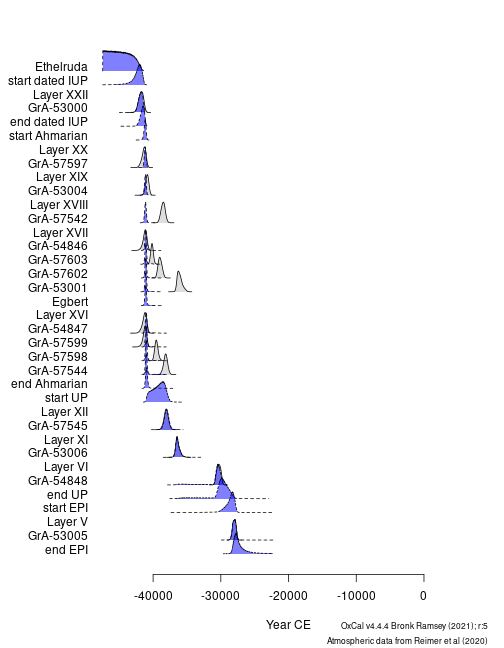
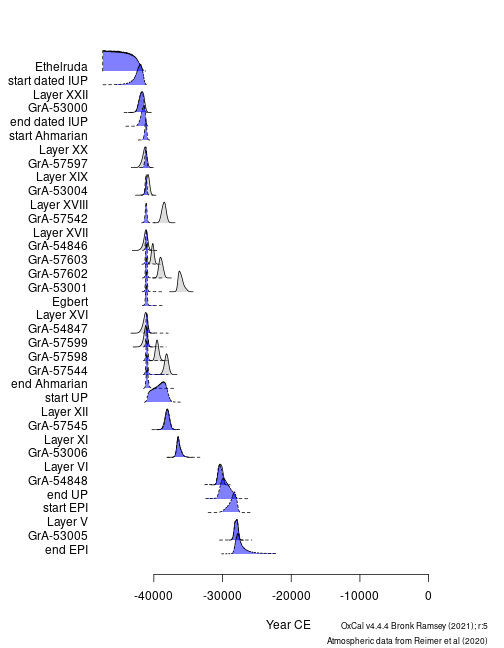
Deploying to gh-pages from @ ArchaeoStat/ArchaeoCal@58fbb9c8722d02583ce2d0082a430f33365cce5d 🚀

diff --git a/articles/ArchaeoCal.html b/articles/ArchaeoCal.html
@@ -73,7 +73,7 @@
                         <h4 data-toc-skip class="author">N.
 Frerebeau</h4>
             
-            <h4 data-toc-skip class="date">2023-06-02</h4>
+            <h4 data-toc-skip class="date">2023-12-04</h4>
       
       <small class="dont-index">Source: <a href="https://github.com/ArchaeoStat/ArchaeoCal/blob/HEAD/vignettes/ArchaeoCal.Rmd" class="external-link"><code>vignettes/ArchaeoCal.Rmd</code></a></small>
       <div class="hidden name"><code>ArchaeoCal.Rmd</code></div>
@@ -94,7 +94,7 @@ package which is available in a <a href="https://archaeostat.r-universe.dev" cla
 <span></span>
 <span><span class="co">## Download OxCal</span></span>
 <span><span class="fu"><a href="../reference/oxcal_configure.html">oxcal_configure</a></span><span class="op">(</span><span class="op">)</span></span>
-<span><span class="co">#&gt; OxCal binary found at /tmp/RtmpHKZr7R/OxCal/bin/OxCalLinux</span></span></code></pre></div>
+<span><span class="co">#&gt; OxCal binary found at /tmp/RtmpDY8HDa/OxCal/bin/OxCalLinux</span></span></code></pre></div>
 <div class="sourceCode" id="cb3"><pre class="downlit sourceCode r">
 <code class="sourceCode R"><span><span class="co">## Read OxCal script from Bosch et al. 2015</span></span>
 <span><span class="va">path</span> <span class="op">&lt;-</span> <span class="fu"><a href="https://rdrr.io/r/base/system.file.html" class="external-link">system.file</a></span><span class="op">(</span><span class="st">"oxcal/ksarakil/ksarakil.oxcal"</span>, package <span class="op">=</span> <span class="st">"ArchaeoData"</span><span class="op">)</span></span>
@@ -110,30 +110,34 @@ package which is available in a <a href="https://archaeostat.r-universe.dev" cla
 <span><span class="co">#&gt; MCMC analysis</span></span>
 <span><span class="co">#&gt; Sort Burn    Trial   Save    Shrink  kPasses Done    Ok  Convergence</span></span>
 <span><span class="co">#&gt; [.]  [.] [.] [.]     3.0 10.0    100.0   100.0</span></span>
-<span><span class="co">#&gt; [.]  [.] [.] [.]     6.0 20.0    100.0   8.2</span></span>
-<span><span class="co">#&gt; [.]  [.] [.] [.]     12.0    22.2    100.0   4.8</span></span>
-<span><span class="co">#&gt; [.]  [.] [.] [.]     24.0    22.2    100.0   14.7</span></span>
-<span><span class="co">#&gt; [.]  [.] [.] [.]     48.0    22.2    100.0   36.3</span></span>
-<span><span class="co">#&gt; [.]  [.] [.] [.]     96.0    22.2    100.0   32.0</span></span>
-<span><span class="co">#&gt; [.]  [.] [.] [.] [.] 192.0   22.2    100.0   56.1</span></span>
-<span><span class="co">#&gt; [.]  [.] [.] [.]     384.0   22.2    100.0   75.3</span></span>
-<span><span class="co">#&gt; [.]  [.] [.] [.]     768.0   22.2    100.0   93.5</span></span>
-<span><span class="co">#&gt; [.]  [.] [.] [.]     1152.0  30.0    100.0   90.8</span></span>
-<span><span class="co">#&gt; [.]  [.] [.] [.]     1536.0  40.0    100.0   90.8</span></span>
-<span><span class="co">#&gt; [.]  [.] [.] [.]     1920.0  50.0    100.0   90.8</span></span>
-<span><span class="co">#&gt; [.]  [.] [.] [.]     2304.0  60.0    100.0   90.8</span></span>
-<span><span class="co">#&gt; [.]  [.] [.] [.]     2688.0  70.0    100.0   90.8</span></span>
-<span><span class="co">#&gt; [.]  [.] [.] [.]     3072.0  80.0    100.0   90.8</span></span>
-<span><span class="co">#&gt; [.]  [.] [.] [.]     3456.0  90.0    100.0   90.8</span></span>
-<span><span class="co">#&gt; [.]  [.] [.] [.]     3840.0  100.0   100.0   90.8</span></span>
-<span><span class="co">#&gt; [.]  [.] [.] [.]     4224.0  110.0   100.0   90.8</span></span>
+<span><span class="co">#&gt; [.]  [.] [.] [.]     6.0 20.0    100.0   6.8</span></span>
+<span><span class="co">#&gt; [.]  [.] [.] [.]     12.0    22.2    100.0   14.4</span></span>
+<span><span class="co">#&gt; [.]  [.] [.] [.]     24.0    22.2    100.0   6.2</span></span>
+<span><span class="co">#&gt; [.]  [.] [.] [.]     48.0    22.2    100.0   43.2</span></span>
+<span><span class="co">#&gt; [.]  [.] [.] [.] [.] 96.0    22.2    100.0   64.5</span></span>
+<span><span class="co">#&gt; [.]  [.] [.] [.]     192.0   22.2    100.0   80.3</span></span>
+<span><span class="co">#&gt; [.]  [.] [.] [.]     384.0   22.2    100.0   83.2</span></span>
+<span><span class="co">#&gt; [.]  [.] [.] [.]     768.0   22.2    100.0   70.5</span></span>
+<span><span class="co">#&gt; [.]  [.] [.] [.]     1152.0  30.0    100.0   95.8</span></span>
+<span><span class="co">#&gt; [.]  [.] [.] [.]     1536.0  40.0    100.0   85.1</span></span>
+<span><span class="co">#&gt; [.]  [.] [.] [.]     1920.0  50.0    100.0   85.1</span></span>
+<span><span class="co">#&gt; [.]  [.] [.] [.]     2304.0  60.0    100.0   85.1</span></span>
+<span><span class="co">#&gt; [.]  [.] [.] [.]     2688.0  70.0    100.0   85.1</span></span>
+<span><span class="co">#&gt; [.]  [.] [.] [.]     3072.0  80.0    100.0   85.1</span></span>
+<span><span class="co">#&gt; [.]  [.] [.] [.]     3456.0  90.0    100.0   85.1</span></span>
+<span><span class="co">#&gt; [.]  [.] [.] [.]     3840.0  100.0   100.0   82.4</span></span>
+<span><span class="co">#&gt; [.]  [.] [.] [.]     4224.0  110.0   100.0   82.4</span></span>
 <span></span>
 <span><span class="co">## Parse OxCal output</span></span>
 <span><span class="va">res</span> <span class="op">&lt;-</span> <span class="fu"><a href="../reference/oxcal_parse.html">oxcal_parse</a></span><span class="op">(</span><span class="va">out</span><span class="op">)</span></span></code></pre></div>
 <div class="sourceCode" id="cb4"><pre class="downlit sourceCode r">
 <code class="sourceCode R"><span><span class="fu"><a href="https://rdrr.io/r/graphics/par.html" class="external-link">par</a></span><span class="op">(</span>mar <span class="op">=</span> <span class="fu"><a href="https://rdrr.io/r/base/c.html" class="external-link">c</a></span><span class="op">(</span><span class="fl">5</span>, <span class="fl">6</span>, <span class="fl">1</span>, <span class="fl">1</span><span class="op">)</span> <span class="op">+</span> <span class="fl">0.1</span><span class="op">)</span></span>
 <span><span class="fu"><a href="../reference/plot.html">plot</a></span><span class="op">(</span><span class="va">res</span><span class="op">)</span></span></code></pre></div>
-<p><img src="figures/plot-1.png" alt="plot of chunk plot" style="display: block; margin: auto;"></p>
+<div class="figure" style="text-align: center">
+<img src="figures/plot-1.png" alt="plot of chunk plot"><p class="caption">
+plot of chunk plot
+</p>
+</div>
 <div class="section level2 unnumbered">
 <h2 class="unnumbered" id="references">References<a class="anchor" aria-label="anchor" href="#references"></a>
 </h2>
